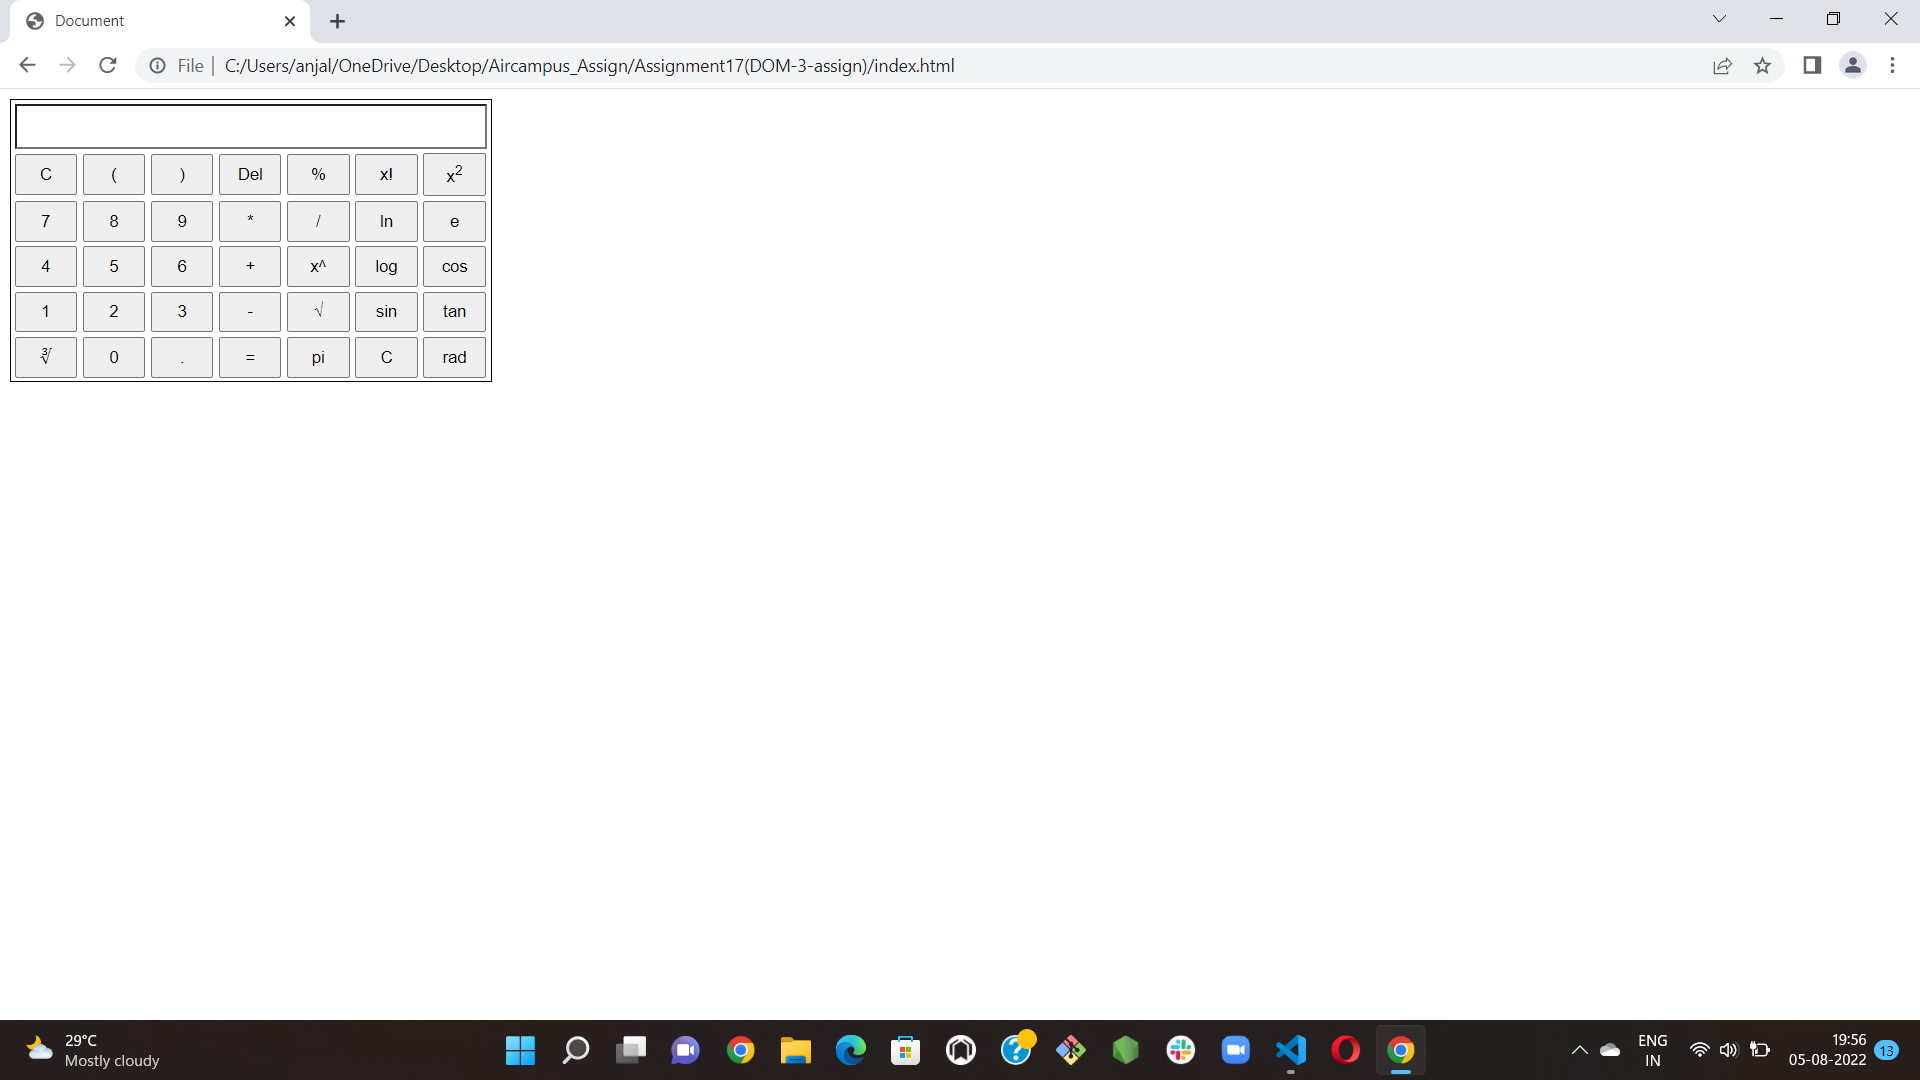
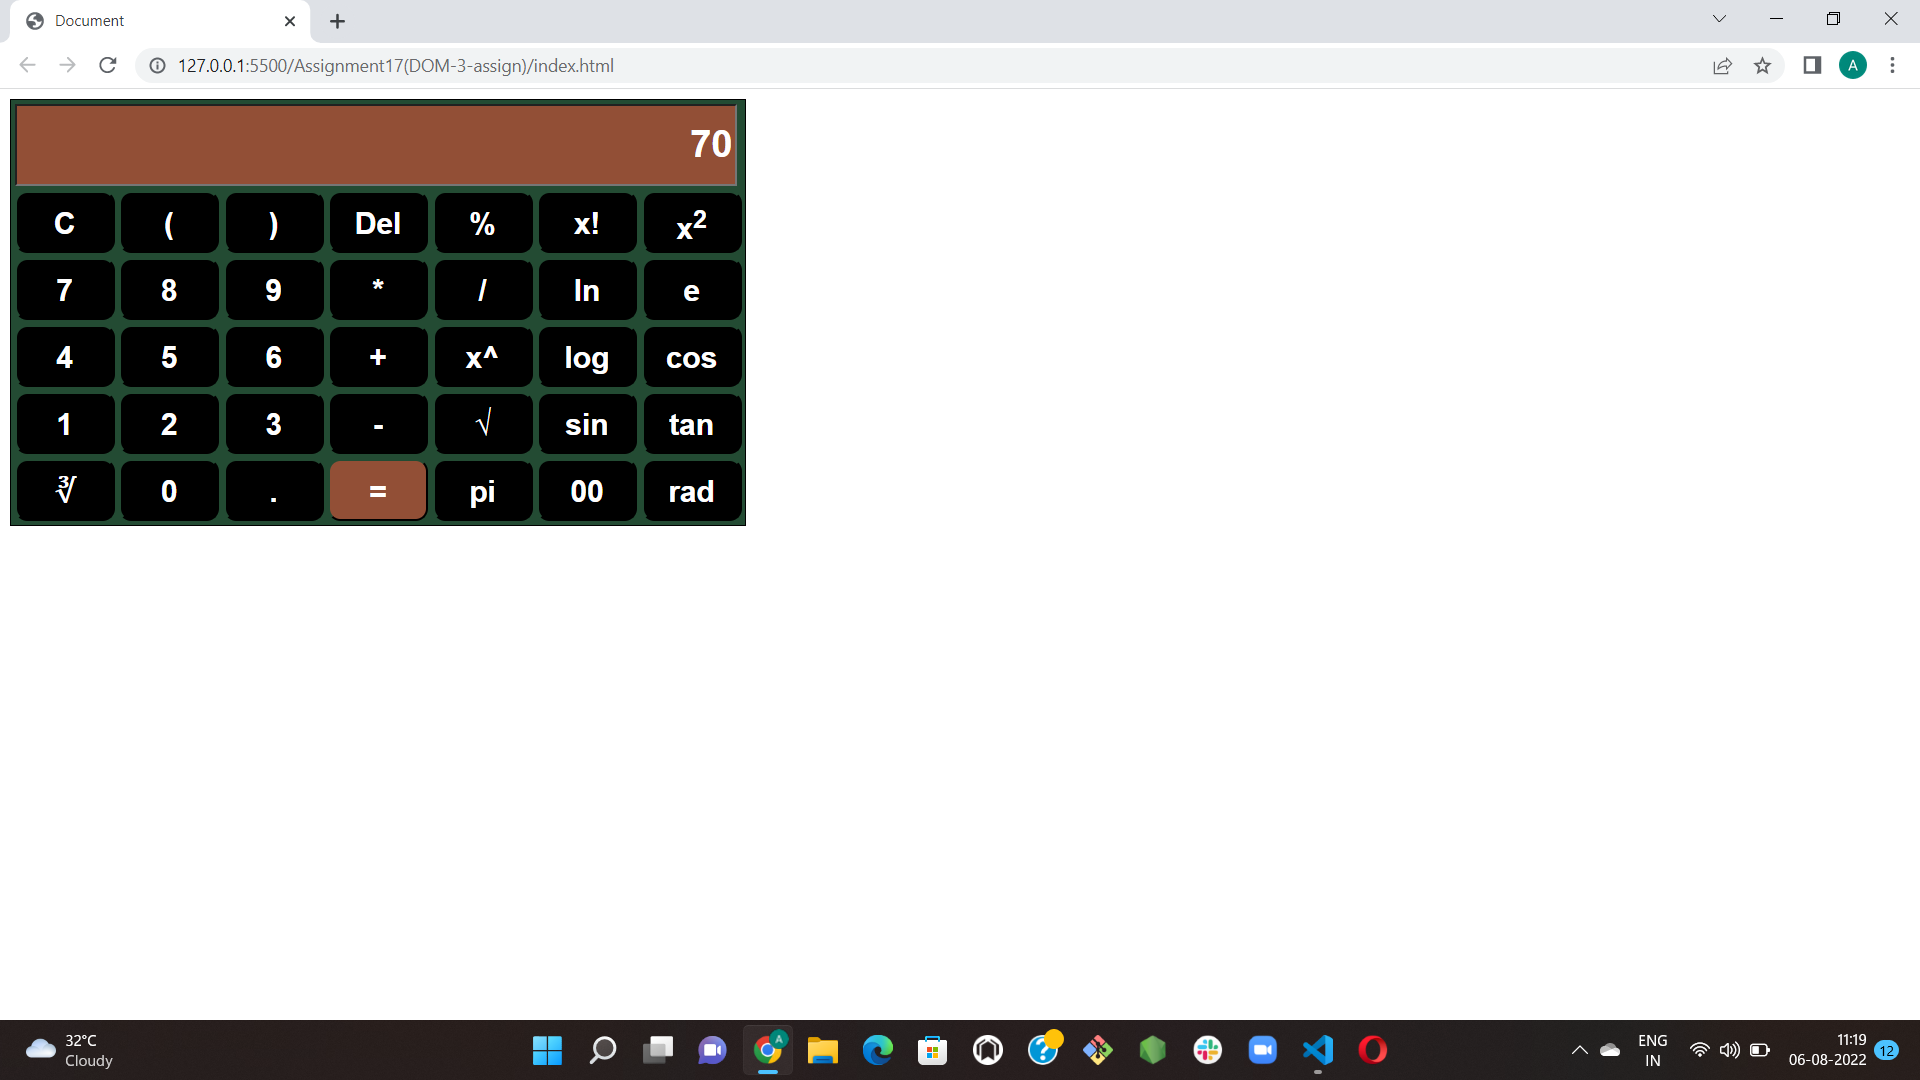
assignment

diff --git a/Assignment17(DOM-3-assign)/index.html b/Assignment17(DOM-3-assign)/index.html
@@ -13,7 +13,7 @@
             <tr>
                 <td colspan="7"><input type="text" name="result" id="display"></td>
             </tr>
-            <tr id="td">
+            <tr>
                 <td><button type="button" value="clear" onclick="clear()">C</button></td>
                 <td><button type="button" value="(" onclick="num(value)">(</button></td>
                 <td><button type="button" value=")" onclick="num(value)">)</button></td>
@@ -55,7 +55,7 @@
                 <td><button type="button" value="." onclick="num(value)">.</button></td>
                 <td><button type="button" value="=" onclick="equal()">=</button></td>
                 <td><button type="button" value="pi" onclick="pi()">pi</button></td>
-                <td><button type="button" value="C" onclick="Clear(value)">C</button></td>
+                <td><button type="button" value="00" onclick="num(value)">00</button></td>
                 <td><button type="button" value="rad" onclick="rad()">rad</button></td>
             </tr>
         </table>

diff --git a/Assignment17(DOM-3-assign)/app.js b/Assignment17(DOM-3-assign)/app.js
@@ -36,13 +36,21 @@ function e(){
     document.calculator.result.value = 2.718281828459045*(document.calculator.result.value)
 
 }
-// function fact(){
-//     let num = calculator.result.value ;
-//     let facto=1;
-//     for(let i=num; i>0; i--){
-//         facto=facto*i;
-//     }
-//     // return facto;
-//    return calculator.result.value = facto;
+function log(){
+    document.calculator.result.value = Math.log(document.calculator.result.value)
+}
+function rad(){
+    document.calculator.result.value = document.calculator.result.value*(3.141592653589793238/180);
+}
 
-// }
+function fact(){
+    let num = calculator.result.value ;
+    let facto=1;
+    for(let i=num; i>0; i--){
+        facto=facto*i;
+    }
+   
+ return facto;
+
+}
+calculator.result.value = facto();

diff --git a/Assignment17(DOM-3-assign)/style.css b/Assignment17(DOM-3-assign)/style.css
@@ -1,20 +1,32 @@
 table{
-    width: 300px;
+    width: 500px;
     border: 1px solid black;
+    background-color: rgb(35, 75, 51);
 }
+
 #display{
-    width: 370px;
-    height: 30px;
-    background-color: white;
+    width: 570px;
+    height: 60px;
+    background-color: rgb(146, 79, 54);
     text-align: right;
+    font-size: 30px;
+    font-weight: bolder;
+    color: white;
 }
-#td{
-    width: 370px;
-}
+
 button{
-    width: 50px;
+    width: 80px;
+    height: 50px;
     line-height: 2;
+    background-color: black;
+    color: white;
+    border-radius: 10px;
+    font-size: x-large; 
+    font-weight: bolder;
+    cursor: pointer;
+    border-color: rgb(35, 75, 51);
 }
+
 button:hover{
-    background-color: white;
+    background-color: rgb(146, 79, 54);
 }
